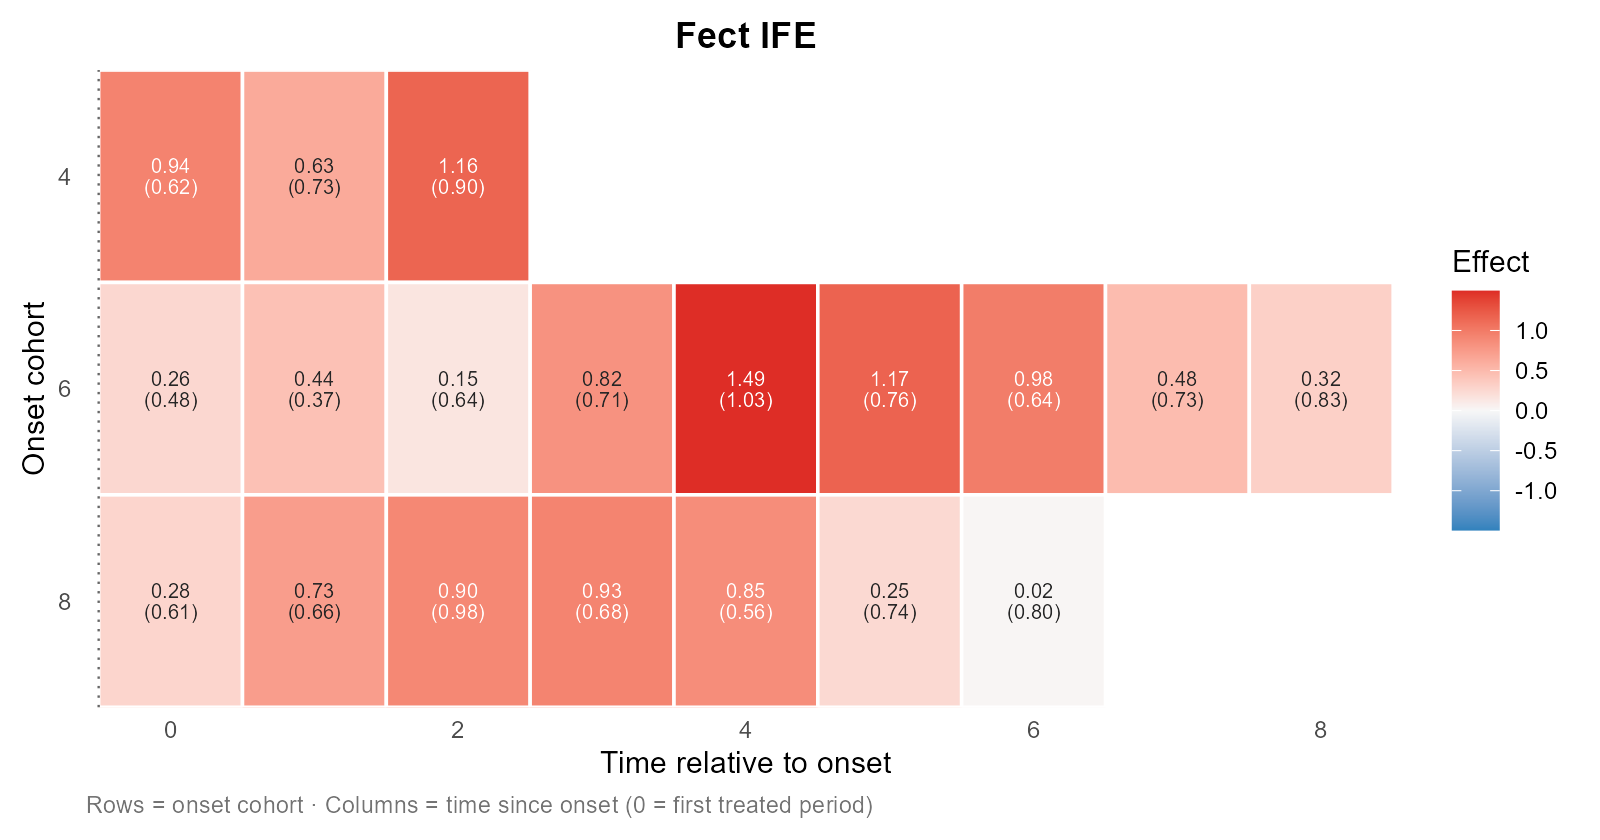
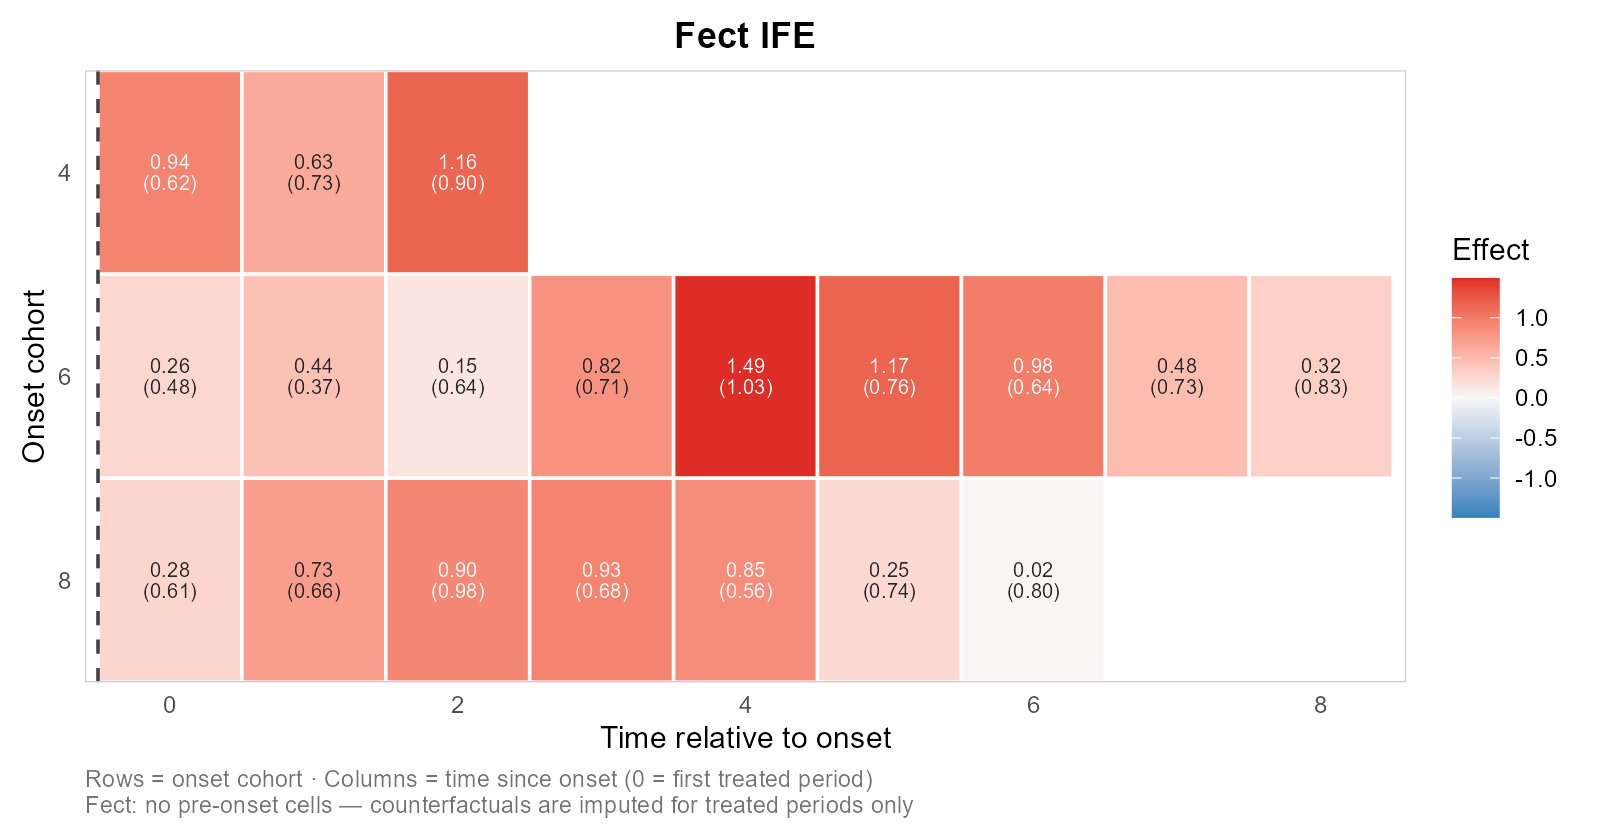
update of heatmap visual

diff --git a/README.md b/README.md
@@ -6,9 +6,13 @@
 [![Lifecycle: experimental](https://img.shields.io/badge/lifecycle-experimental-orange.svg)](https://lifecycle.r-lib.org/articles/stages.html#experimental)
 <!-- badges: end -->
 
-`nonabsdid` is an R package for visualizing and comparing heterogeneity-robust staggered DID event-study estimates under <ins>**non-absorbing**</ins> binary treatment, where treatment status may switch on and off over time, including treatment reversals. Its example output plot is as follows.
+`nonabsdid` is an R package for visualizing and comparing heterogeneity-robust staggered DID event-study estimates under <ins>**non-absorbing**</ins> binary treatment, where treatment status may switch on and off over time, including treatment reversals. Its example output event-study plot is as follows.
 
 <img src="man/figures/README_example2_plot_method_shape.png" alt="Comparison of heterogeneity-robust estimators vs naive TWFE" />
+
+This package can also produce a cohort-by-time "effect matrix" output as a heatmap so that you can read an estimator's heterogeneity. It supports DCDH and fect (IFE/MC/FE).  
+
+<img src="man/figures/README_cohort_matrix_combined.png" alt="DCDH vs fect cohort effect matrix" width="90%" />
 
 It covers existing multiple estimators and runs analysis via their
 own packages, then puts their output on the same time axis, the same
@@ -39,7 +43,7 @@ correcting against.
 ## Installation
 
 > [!NOTE]
-> The version on CRAN is outdated. Install from GitHub or R-universe for the latest version.
+> The version on CRAN might be outdated. Install from GitHub or R-universe for the latest version.
 
 ```r
 # Development version from GitHub:
@@ -289,7 +293,7 @@ calendar) time, fill is the estimated effect. One method per plot reads best
 beneath each estimate.
 
 <img src="man/figures/README_cohort_matrix.png" alt="Cohort-by-time effect matrix heatmap (IFE estimator)" width="80%" />
-<img src="man/figures/cohort_matrix_dcdh.png" alt="Cohort-by-time effect matrix heatmap (DCDH estimator)" width="80%" />
+<img src="man/figures/README_cohort_matrix_dcdh.png" alt="Cohort-by-time effect matrix heatmap (DCDH estimator)" width="80%" />
 
 ```r
 res_ife  <- nabs_effect_cells(panel, outcome = "y", treatment = "d",

diff --git a/NEWS.md b/NEWS.md
@@ -1,4 +1,4 @@
-# nonabsdid 0.3.2.9007
+# nonabsdid 0.3.2.9008
 
 * Added a `pkgdown` website.
 * Followed `goodpractice`.